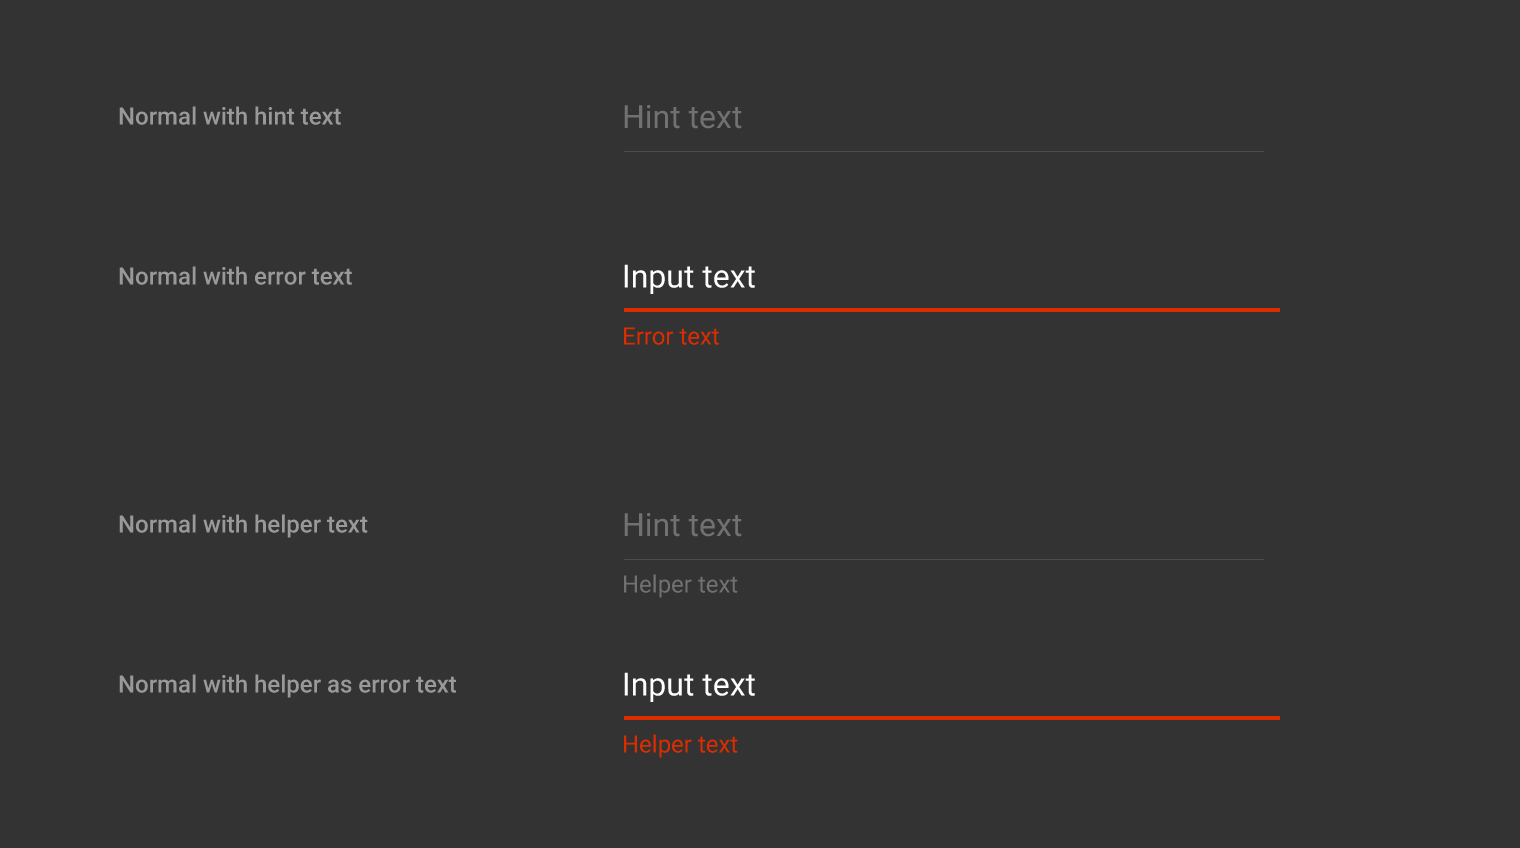
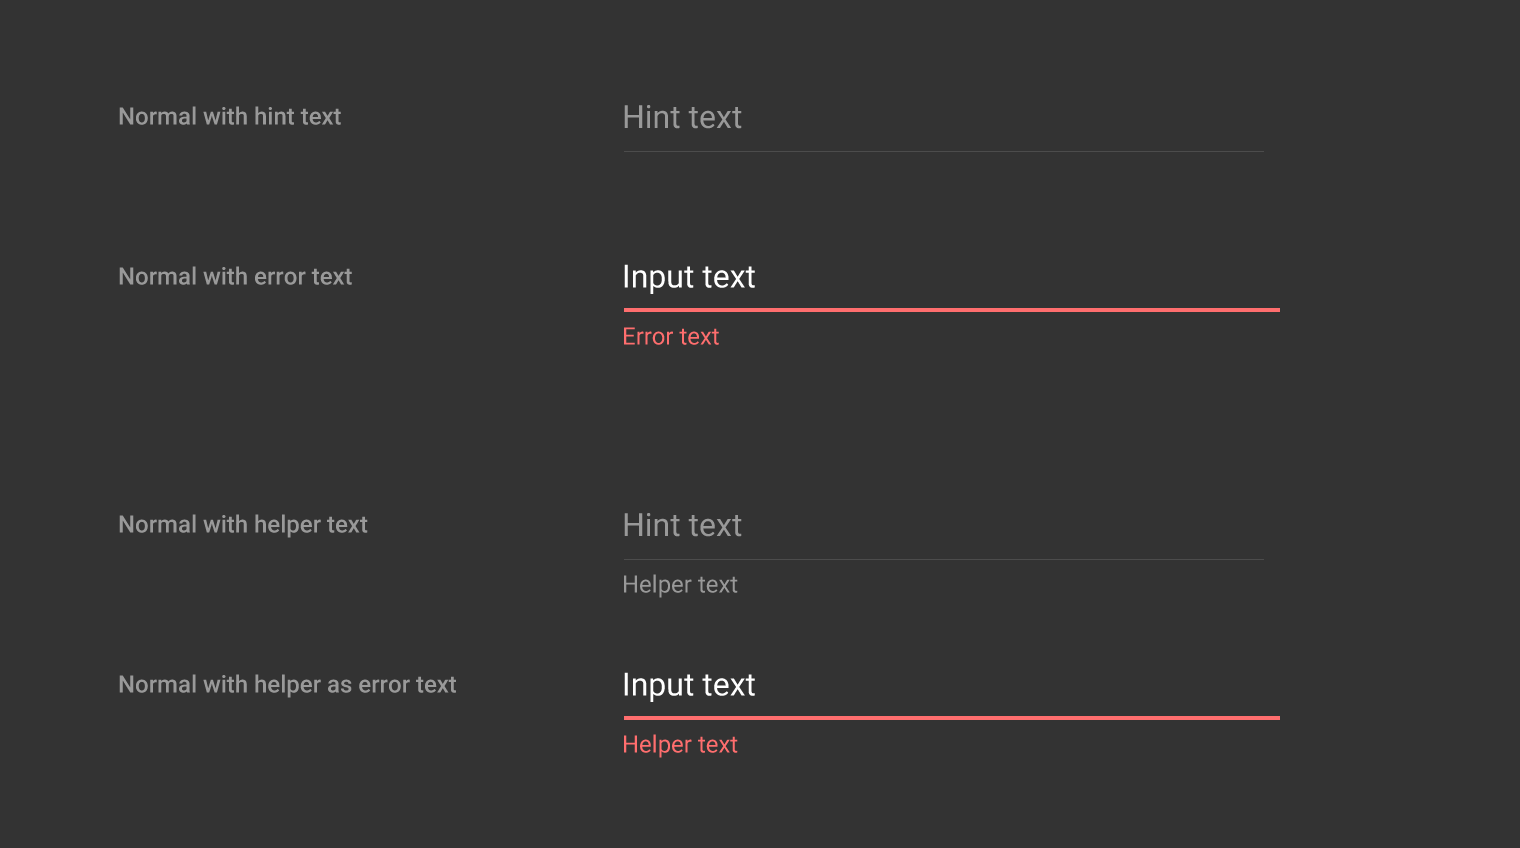
Correct patterns

diff --git a/patterns/gestures.html b/patterns/gestures.html
@@ -218,7 +218,7 @@
                 <dt class="qp-ui" data-qp-ui="{ 'SideNavZippy': false }">리소스
                 </dt>
         <dd>
-                    <a class="" href="../resources/color-palettes.html">색상 팔레트
+                    <a class="" href="../resources/color-palettes.html">색상표
                     </a>
                     <a class="" href="../resources/devices.html">디바이스
                     </a>
@@ -259,7 +259,7 @@
     </div>
     
         <nav class="chapter-toc">
-      <h1>차례</h1>
+      <h1>목차</h1>
       <ul>
                 <li><a class="gweb-smoothscroll-control qp-ui" data-qp-ui="{ 'SmoothScroll': {} }" href="#gestures-touch-mechanics">터치 메커니즘
                 </a></li>
@@ -299,7 +299,7 @@
                           <img src="../material-design.storage.googleapis.com/publish/material_v_4/material_ext_publish/0B08MbvYZK1iNQWJmd05meTMwVmM/patterns-gestures-gestures-touch_large_xhdpi.png"  />
                       </div>
                         <figcaption>
-          <div class="caption-title">터치</div><p>한 손가락 누르기, 떼기</p><p>예제: 선택</p>
+          <div class="caption-title">터치</div><p>한 손가락 누르기, 떼기</p><p>사용 예: 선택</p>
         </figcaption>
                 </figure>
             <figure class="">
@@ -307,7 +307,7 @@
                           <img src="../material-design.storage.googleapis.com/publish/material_v_4/material_ext_publish/0B08MbvYZK1iNcm9nRFMzY2NGSW8/patterns-gestures-gestures-double-touch_large_xhdpi.png"  />
                       </div>
                         <figcaption>
-          <div class="caption-title">더블 터치</div><p>한 손가락 누르기, 떼기, 한 손가락 누르기, 떼기</p><p>예제: 확대</p>
+          <div class="caption-title">더블 터치</div><p>한 손가락 누르기, 떼기, 한 손가락 누르기, 떼기</p><p>사용 예: 확대</p>
         </figcaption>
                 </figure>
             <figure class="">
@@ -315,7 +315,7 @@
                           <img src="../material-design.storage.googleapis.com/publish/material_v_4/material_ext_publish/0B08MbvYZK1iNUDNQN1kweVBsbDg/patterns-gestures-gestures-swipe_large_xhdpi.png"  />
                       </div>
                         <figcaption>
-          <div class="caption-title">드래그, 스와이프 또는 플링</div><p>한 손가락 누르기, 이동, 떼기</p><p>예제: 버리기(Dismiss), 스크롤, 틸트 등</p>
+          <div class="caption-title">드래그, 스와이프 또는 플링</div><p>한 손가락 누르기, 이동, 떼기</p><p>사용 예: 버리기(Dismiss), 스크롤, 틸트 등</p>
         </figcaption>
                 </figure>
           </div>
@@ -331,7 +331,7 @@
                           <img src="../material-design.storage.googleapis.com/publish/material_v_4/material_ext_publish/0B08MbvYZK1iNM0Vpb0hlck0tWXc/patterns-gestures-gestures-long-press_large_xhdpi.png"  />
                       </div>
                         <figcaption>
-          <div class="caption-title">롱 프레스</div><p>한 손가락 누르기, 기다리기, 떼기</p><p>예제: 리스트 아이템과 같은 요소를 선택</p><p>롱 프레스는 상황에 맞는 메뉴(Contextual Menu)를 표시하기 위해 사용되지 않습니다.</p>
+          <div class="caption-title">롱 프레스</div><p>한 손가락 누르기, 기다리기, 떼기</p><p>사용 예: 리스트 아이템과 같은 요소를 선택</p><p>롱 프레스는 상황에 맞는 메뉴(Contextual Menu)를 표시하기 위해 사용되지 않습니다.</p>
         </figcaption>
                 </figure>
             <figure class="">
@@ -339,7 +339,7 @@
                           <img src="../material-design.storage.googleapis.com/publish/material_v_4/material_ext_publish/0B08MbvYZK1iNQlFaTWJXREp1UjA/patterns-gestures-gestures-long-press-drag_large_xhdpi.png"  />
                       </div>
                         <figcaption>
-          <div class="caption-title">롱 프레스 드래그</div><p>한 손가락 누르기, 기다리기, 이동, 떼기</p><p>예제: 집어서 이동, 여러 아이템 선택</p>
+          <div class="caption-title">롱 프레스 드래그</div><p>한 손가락 누르기, 기다리기, 이동, 떼기</p><p>사용 예: 집어서 이동, 여러 아이템 선택</p>
         </figcaption>
                 </figure>
             <figure class="">
@@ -347,7 +347,7 @@
                           <img src="../material-design.storage.googleapis.com/publish/material_v_4/material_ext_publish/0B08MbvYZK1iNVmFwVnNZR0ltV0E/Patterns-Gestures-TouchMechanics-6-Long-press-drag_large_xhdpi.png"  />
                       </div>
                         <figcaption>
-          <div class="caption-title">더블 터치 드래그</div><p>한 손가락 누르기, 떼기, 한 손가락 누르기, 이동, 떼기</p><p>예제: 확대, 축소</p>
+          <div class="caption-title">더블 터치 드래그</div><p>한 손가락 누르기, 떼기, 한 손가락 누르기, 이동, 떼기</p><p>사용 예: 확대, 축소</p>
         </figcaption>
                 </figure>
           </div>
@@ -363,7 +363,7 @@
                           <img src="../material-design.storage.googleapis.com/publish/material_v_4/material_ext_publish/0B08MbvYZK1iNMS00Zi1TSG02YmM/patterns-gestures-gestures-pinch-open_large_xhdpi.png"  />
                       </div>
                         <figcaption>
-          <div class="caption-title">핀치 오픈</div><p>두 손가락 누르기, 바깥쪽으로 이동, 떼기</p><p>예제: 확대</p>
+          <div class="caption-title">핀치 오픈</div><p>두 손가락 누르기, 바깥쪽으로 이동, 떼기</p><p>사용 예: 확대</p>
         </figcaption>
                 </figure>
             <figure class="">
@@ -371,7 +371,7 @@
                           <img src="../material-design.storage.googleapis.com/publish/material_v_4/material_ext_publish/0B08MbvYZK1iNLUV0TW9Jd1YzSUE/patterns-gestures-gestures-pinch-closed_large_xhdpi.png"  />
                       </div>
                         <figcaption>
-          <div class="caption-title">핀치 클로즈</div><p>두 손가락 누르기, 안쪽으로 이동, 떼기</p><p>예제: 축소</p>
+          <div class="caption-title">핀치 클로즈</div><p>두 손가락 누르기, 안쪽으로 이동, 떼기</p><p>사용 예: 축소</p>
         </figcaption>
                 </figure>
             <figure class="">
@@ -379,7 +379,7 @@
                           <img src="../material-design.storage.googleapis.com/publish/material_v_4/material_ext_publish/0B08MbvYZK1iNQUlHNEc5T3oxVzQ/patterns-gestures-gestures-two-finger-touch_large_xhdpi.png"  />
                       </div>
                         <figcaption>
-          <div class="caption-title">두 손가락 터치</div><p>두 손가락 누르기, 떼기</p><p>예제: 축소</p>
+          <div class="caption-title">두 손가락 터치</div><p>두 손가락 누르기, 떼기</p><p>사용 예: 축소</p>
         </figcaption>
                 </figure>
           </div>
@@ -395,7 +395,7 @@
                           <img src="../material-design.storage.googleapis.com/publish/material_v_4/material_ext_publish/0B08MbvYZK1iNV2dWQk5ycGNCaWM/patterns-gestures-gestures-two-finger-swipe_large_xhdpi.png"  />
                       </div>
                         <figcaption>
-          <div class="caption-title">두 손가락 스와이프, 드래그, 플링</div><p>두 손가락 누르기, 이동, 떼기</p><p>예제: 여러 아이템 선택하기, 팬(Pan), 틸트</p>
+          <div class="caption-title">두 손가락 스와이프, 드래그, 플링</div><p>두 손가락 누르기, 이동, 떼기</p><p>사용 예: 여러 아이템 선택하기, 팬(Pan), 틸트</p>
         </figcaption>
                 </figure>
             <figure class="">
@@ -403,7 +403,7 @@
                           <img src="../material-design.storage.googleapis.com/publish/material_v_4/material_ext_publish/0B08MbvYZK1iNN3JmUHVaZWxpSnc/patterns-gestures-gestures-two-finger-long-press_large_xhdpi.png"  />
                       </div>
                         <figcaption>
-          <div class="caption-title">두 손가락 롱 프레스</div><p>두 손가락 누르기, 기다리기, 떼기</p><p>예제: 없음; 이 제스처는 흔하지 않습니다.</p>
+          <div class="caption-title">두 손가락 롱 프레스</div><p>두 손가락 누르기, 기다리기, 떼기</p><p>사용 예: 없음; 이 제스처는 흔하지 않습니다.</p>
         </figcaption>
                 </figure>
             <figure class="">
@@ -411,7 +411,7 @@
                           <img src="../material-design.storage.googleapis.com/publish/material_v_4/material_ext_publish/0B08MbvYZK1iNZUw0elpoNDdpOWc/patterns-gestures-gestures-two-finger-long-press-drag_large_xhdpi.png"  />
                       </div>
                         <figcaption>
-          <div class="caption-title">두 손가락 롱 프레스 드래그</div><p>두 손가락 누르기, 기다리기, 이동, 떼기</p><p>예제: 집어서 이동</p>
+          <div class="caption-title">두 손가락 롱 프레스 드래그</div><p>두 손가락 누르기, 기다리기, 이동, 떼기</p><p>사용 예: 집어서 이동</p>
         </figcaption>
                 </figure>
           </div>
@@ -427,7 +427,7 @@
                           <img src="../material-design.storage.googleapis.com/publish/material_v_4/material_ext_publish/0B08MbvYZK1iNSkhOQzJoS0tRWGc/patterns-gestures-gestures-two-finger-double-touch_large_xhdpi.png"  />
                       </div>
                         <figcaption>
-          <div class="caption-title">두 손가락 더블 터치</div><p>두 손가락 누르기, 떼기, 두 손가락 누르기, 떼기</p><p>예제: 축소</p>
+          <div class="caption-title">두 손가락 더블 터치</div><p>두 손가락 누르기, 떼기, 두 손가락 누르기, 떼기</p><p>사용 예: 축소</p>
         </figcaption>
                 </figure>
             <figure class="">
@@ -435,7 +435,7 @@
                           <img src="../material-design.storage.googleapis.com/publish/material_v_4/material_ext_publish/0B08MbvYZK1iNMmxWa3VSRVlONUU/patterns-gestures-gestures-rotate_large_xhdpi.png"  />
                       </div>
                         <figcaption>
-          <div class="caption-title">로테이트</div><p>두 손가락 누르기, 중심점을 기준으로 양 손가락을 동시에 회전, 떼기</p><p>예제: 지도에서와 같이 내용물을 회전하기</p>
+          <div class="caption-title">로테이트</div><p>두 손가락 누르기, 중심점을 기준으로 양 손가락을 동시에 회전, 떼기</p><p>사용 예: 지도에서와 같이 내용물을 회전하기</p>
         </figcaption>
                 </figure>
           </div>
@@ -458,7 +458,7 @@
                   <div>
           <section class="moduleE1">
     <div class="module-body">
-    <p>특정한 제스처와 상황에 따른 결과.</p>
+    <p>상황에 따른 특정한 제스처와 그 결과.</p>
   </div>
   <div class="figure-group">
     <div class="figure-row">

diff --git a/patterns/errors.html b/patterns/errors.html
@@ -218,7 +218,7 @@
                 <dt class="qp-ui" data-qp-ui="{ 'SideNavZippy': false }">리소스
                 </dt>
         <dd>
-                    <a class="" href="../resources/color-palettes.html">색상 팔레트
+                    <a class="" href="../resources/color-palettes.html">색상표
                     </a>
                     <a class="" href="../resources/devices.html">디바이스
                     </a>
@@ -252,25 +252,48 @@
     <div class="chapter-content">
         
         <div class="chapter-intro">
-            <p>에러는 앱이 기대하던 작업을 완료하지 못할 때 발생합니다. 예를 들어:</p><ul><li>앱이 사용자 입력을 이해하지 못하는 경우</li><li>시스템이나 앱이 실패하는 경우</li><li>사용자가 동시에 양립할 수 없는 작업을 실행하려는 경우</li></ul><p>사용자가 정보를 쉽고 융통성 있게 입력하도록 앱을 디자인하여 에러를 최소화하십시오. 앱은 사용자 이해를 높이기 위해서 행동 유도성을 사용한 공통된 데이터 형식을 받아들여야 합니다.</p><p>에러를 다루는 방법:</p><ul><li>무엇이 일어날 지 분명하게 전하십시오.</li><li>어떻게 사용자가 그것을 해결할 수 있는지 설명하십시오.</li><li>가능한 한 사용자가 입력한 내용을 보호하십시오.</li></ul>
-
+          <p>에러는 앱이 기대하는 작업을 완료하지 못할 때 발생합니다.</p>
       
       
     </div>
     
         <nav class="chapter-toc">
-      <h1>차례</h1>
+      <h1>목차</h1>
       <ul>
-                <li><a class="gweb-smoothscroll-control qp-ui" data-qp-ui="{ 'SmoothScroll': {} }" href="#errors-user-input-errors">사용자 입력 에러
+                <li><a class="gweb-smoothscroll-control qp-ui" data-qp-ui="{ 'SmoothScroll': {} }" href="#errors-usage" data-qp-ui-data-id="qp:f">사용법
                 </a></li>
-                <li><a class="gweb-smoothscroll-control qp-ui" data-qp-ui="{ 'SmoothScroll': {} }" href="#errors-app-errors">앱 에러
+                <li><a class="gweb-smoothscroll-control qp-ui" data-qp-ui="{ 'SmoothScroll': {} }" href="#errors-user-input-errors" data-qp-ui-data-id="qp:g">사용자 입력 에러
                 </a></li>
-                <li><a class="gweb-smoothscroll-control qp-ui" data-qp-ui="{ 'SmoothScroll': {} }" href="#errors-incompatible-state-errors">양립할 수 없는 상태 에러
+                <li><a class="gweb-smoothscroll-control qp-ui" data-qp-ui="{ 'SmoothScroll': {} }" href="#errors-app-errors" data-qp-ui-data-id="qp:h">앱 에러
+                </a></li>
+                <li><a class="gweb-smoothscroll-control qp-ui" data-qp-ui="{ 'SmoothScroll': {} }" href="#errors-incompatible-state-errors" data-qp-ui-data-id="qp:i">양립할 수 없는 상태 에러
                 </a></li>
               </ul>
     </nav>
     
     <div class="article-list">
+<div id="errors-usage" class="article qp-ui" data-qp-ui="{ 'ScrollSpy': {} }" data-qp-ui-data-id="qp:j">
+  <h2 class="article-title qp-ui" data-qp-ui="{ 'ResponsiveZippy': {} }" data-qp-ui-data-id="qp:k">
+    사용법
+            <svg xmlns="http://www.w3.org/2000/svg" version="1.1" class="icon icon-expand-collapse" role="img" viewBox="0 0 10 10" aria-labelledby="title desc">
+      <title id="title">Expand and collapse content</title>
+      <desc id="desc">An arrow that points down when collapsed and points up when expanded.</desc>
+      <polygon role="presentation" points="2.5,4.167 5,6.667 7.5,4.167 6.917,3.583 5,5.5 3.083,3.583"></polygon>
+    </svg>
+  </h2>
+    <div class="article-content">
+    <div class="module-list">
+                  <div>
+              <section class="moduleB1">
+        <div class="module-body">
+           <p>에러는 앱이 기대하는 작업을 완료하지 못할 때 발생합니다. 예를 들어:</p><ul><li>앱이 사용자 입력을 이해하지 못하는 경우</li><li>시스템이나 앱이 실패하는 경우</li><li>사용자가 동시에 양립할 수 없는 작업을 실행하려는 경우</li></ul><p>사용자가 정보를 쉽고 융통성 있게 입력하도록 앱을 디자인하여 에러를 최소화하십시오. 앱은 사용자 이해를 높이기 위해서 행동 유도성을 사용한 공통된 데이터 형식을 받아들여야 합니다.</p><p>에러를 다루는 방법:</p><ul><li>무엇이 일어날 지 분명하게 전하십시오.</li><li>어떻게 사용자가 그것을 해결할 수 있는지 설명하십시오.</li><li>가능한 한 사용자가 입력한 내용을 보호하십시오.</li></ul>
+    </div>
+  </section>
+
+        </div>
+              </div>
+  </div>
+</div>      
                         <div id="errors-user-input-errors" class="article qp-ui" data-qp-ui="{ 'ScrollSpy': {} }">
   <h2 class="article-title qp-ui" data-qp-ui="{ 'ResponsiveZippy': {} }">
     사용자 입력 에러
@@ -285,7 +308,7 @@
                   <div>
               <section class="moduleB1">
         <div class="module-body">
-      <p>입력 에러가 발견되자마자 사용자가 그것을 고치도록 도와주십시오. 에러가 발견되면 그 폼(Form)의 제출을 비활성화하고, 폼 제출 후에 발견되었다면 그 에러와 그것을 고치는 방법을 분명하게 설명하십시오.</p>
+      <p>입력 에러가 발견되자마자 사용자가 에러를 고치도록 도와주십시오. 에러가 발견되면 그 폼(Form)의 제출을 비활성화하고, 폼 제출 후에 발견되었다면 그 에러와 에러를 고치는 방법을 분명하게 설명하십시오.</p>
     </div>
   </section>
 
@@ -318,10 +341,22 @@
   </div>
 </section>
         </div>
+<div>
+          <section class="moduleE1">
+      <h3>색</h3>
+    <div class="module-body">
+    <p>에러 텍스트는 당신의 제품의 <a href="../style/color.html">색상표</a>를 반영해야 합니다. 에러 상태를 위한 대비색(에를 들어, 빨간색이나 오렌지색 같은 더 따뜻한 색조)을 사용하는 것이 권장됩니다.</p><p>에러 텍스트는 배경색에 대한 분명한 대비를 가짐으로서 가독성이 있어야 합니다.</p><p><a href="https://www.google.com/url?q=http://webaim.org/&amp;sa=D&amp;ust=1454450490847000&amp;usg=AFQjCNEri3yBGqJOH8aI_tYfs0d24Fcw2g">webaim.org</a>와 같은 사이트는 색 대비 체크 도구를 제공합니다.</p>
+  </div>
+  <div class="figure-group">
+    <div class="figure-row">
+          </div>
+  </div>
+</section>
+        </div>        
               <div>
           <section class="moduleE1">
     <div class="module-body">
-    <h4>밝은 배경을 위한 폰트</h4><ul><li>에러: Roboto Regular 12sp #DD2C00</li><li>힌트와 헬퍼 텍스트: #000000, 38% 불투명도</li></ul>
+    <h4>밝은 배경을 위한 폰트</h4><ul><li>에러: Roboto Regular 12sp</li><li>힌트와 헬퍼 텍스트: #000000, 38% 불투명도</li></ul>
   </div>
   <div class="figure-group">
     <div class="figure-row">
@@ -346,7 +381,7 @@
     <div class="figure-row">
             <figure class="">
                           <div class="media">
-                      <img src="../material-design.storage.googleapis.com/publish/material_v_4/material_ext_publish/0B_udO5B8pzrzY1kzRnVHZzcwQUE/patterns_errors_userinput4.png"  />
+                      <img src="../material-design.storage.googleapis.com/publish/material_v_4/material_ext_publish/0Bzhp5Z4wHba3S3JtbjV2WnNJWk0/patterns_errors_userinput4.png"  />
                     </div>
                         <figcaption>
           <p>다음과 같은 상태를 보여주는 어두운 테마: 힌트 텍스트가 있는 일반 상태, 에러 텍스트가 있는 일반 상태, 헬퍼 텍스트가 있는 일반 상태, 에러 텍스트로 헬퍼가 있는 일반 상태</p>

diff --git a/patterns/fingerprint.html b/patterns/fingerprint.html
@@ -218,7 +218,7 @@
                 <dt class="qp-ui" data-qp-ui="{ 'SideNavZippy': false }">리소스
                 </dt>
         <dd>
-                    <a class="" href="../resources/color-palettes.html">색상 팔레트
+                    <a class="" href="../resources/color-palettes.html">색상표
                     </a>
                     <a class="" href="../resources/devices.html">디바이스
                     </a>
@@ -259,7 +259,7 @@
     </div>
     
         <nav class="chapter-toc">
-      <h1>차례</h1>
+      <h1>목차</h1>
       <ul>
                 <li><a class="gweb-smoothscroll-control qp-ui" data-qp-ui="{ 'SmoothScroll': {} }" href="#fingerprint-enrollment">등록
                 </a></li>
@@ -429,7 +429,7 @@
               <div>
           <section class="moduleE1">
     <div class="module-body">
-    <p><strong>제목</strong></p><p>“로그인(Sign in)”과 같은 수행되는 액션을 묘사하는 제목을 사용하십시오. 그 제목은 지문 사용을 소개하기 위해 사용되지 않아야 합니다.</p><p><strong>부차적인 텍스트</strong></p><p>“지문을 확인해 주십시오(Confirm fingerprint)” 문구를 사용하십시오. 이 문구는 안드로이드 설정과 일관성을 유지합니다.</p><p>“구입을 완료하기 위해 지문을 확인해 주십시오(Confirm fingerprint to complete purchase)”와 같이 관련된 사용자 액션과 위의 텍스트를 조합할 것입니다.</p>
+    <p><strong>제목</strong></p><p>“로그인(Sign in)”과 같은 수행되는 액션을 묘사하는 제목을 사용하십시오. 그 제목은 지문 사용을 소개하기 위해 사용되지 않아야 합니다.</p><p><strong>부수적인 텍스트</strong></p><p>“지문을 확인해 주십시오(Confirm fingerprint)” 문구를 사용하십시오. 이 문구는 안드로이드 설정과 일관성을 유지합니다.</p><p>“구입을 완료하기 위해 지문을 확인해 주십시오(Confirm fingerprint to complete purchase)”와 같이 관련된 사용자 액션과 위의 텍스트를 조합할 것입니다.</p>
   </div>
   <div class="figure-group">
     <div class="figure-row">
@@ -537,7 +537,7 @@
               <div>
           <section class="moduleE1">
     <div class="module-body">
-    <h4>종료</h4><p>다이얼로그를 떠날 수 있는 대체 방법을 제공하십시오. 최소한, “취소(Cancel)”와 같은 지문 다이얼로그를 닫기 위한 행동 유도를 제공하십시오.</p>
+    <h4>종료</h4><p>다이얼로그를 떠날 수 있는 대체 방법을 제공하십시오. 최소한, “취소(Cancel)”와 같은 지문 다이얼로그를 닫기 위한 행동 유도성을 제공하십시오.</p>
   </div>
   <div class="figure-group">
     <div class="figure-row">

diff --git a/patterns/launch-screens.html b/patterns/launch-screens.html
@@ -218,7 +218,7 @@
                 <dt class="qp-ui" data-qp-ui="{ 'SideNavZippy': false }">리소스
                 </dt>
         <dd>
-                    <a class="" href="../resources/color-palettes.html">색상 팔레트
+                    <a class="" href="../resources/color-palettes.html">색상표
                     </a>
                     <a class="" href="../resources/devices.html">디바이스
                     </a>
@@ -259,7 +259,7 @@
     </div>
     
         <nav class="chapter-toc">
-      <h1>차례</h1>
+      <h1>목차</h1>
       <ul>
                 <li><a class="gweb-smoothscroll-control qp-ui" data-qp-ui="{ 'SmoothScroll': {} }" href="#launch-screens-types-of-launch-screens">시작 화면의 유형
                 </a></li>
